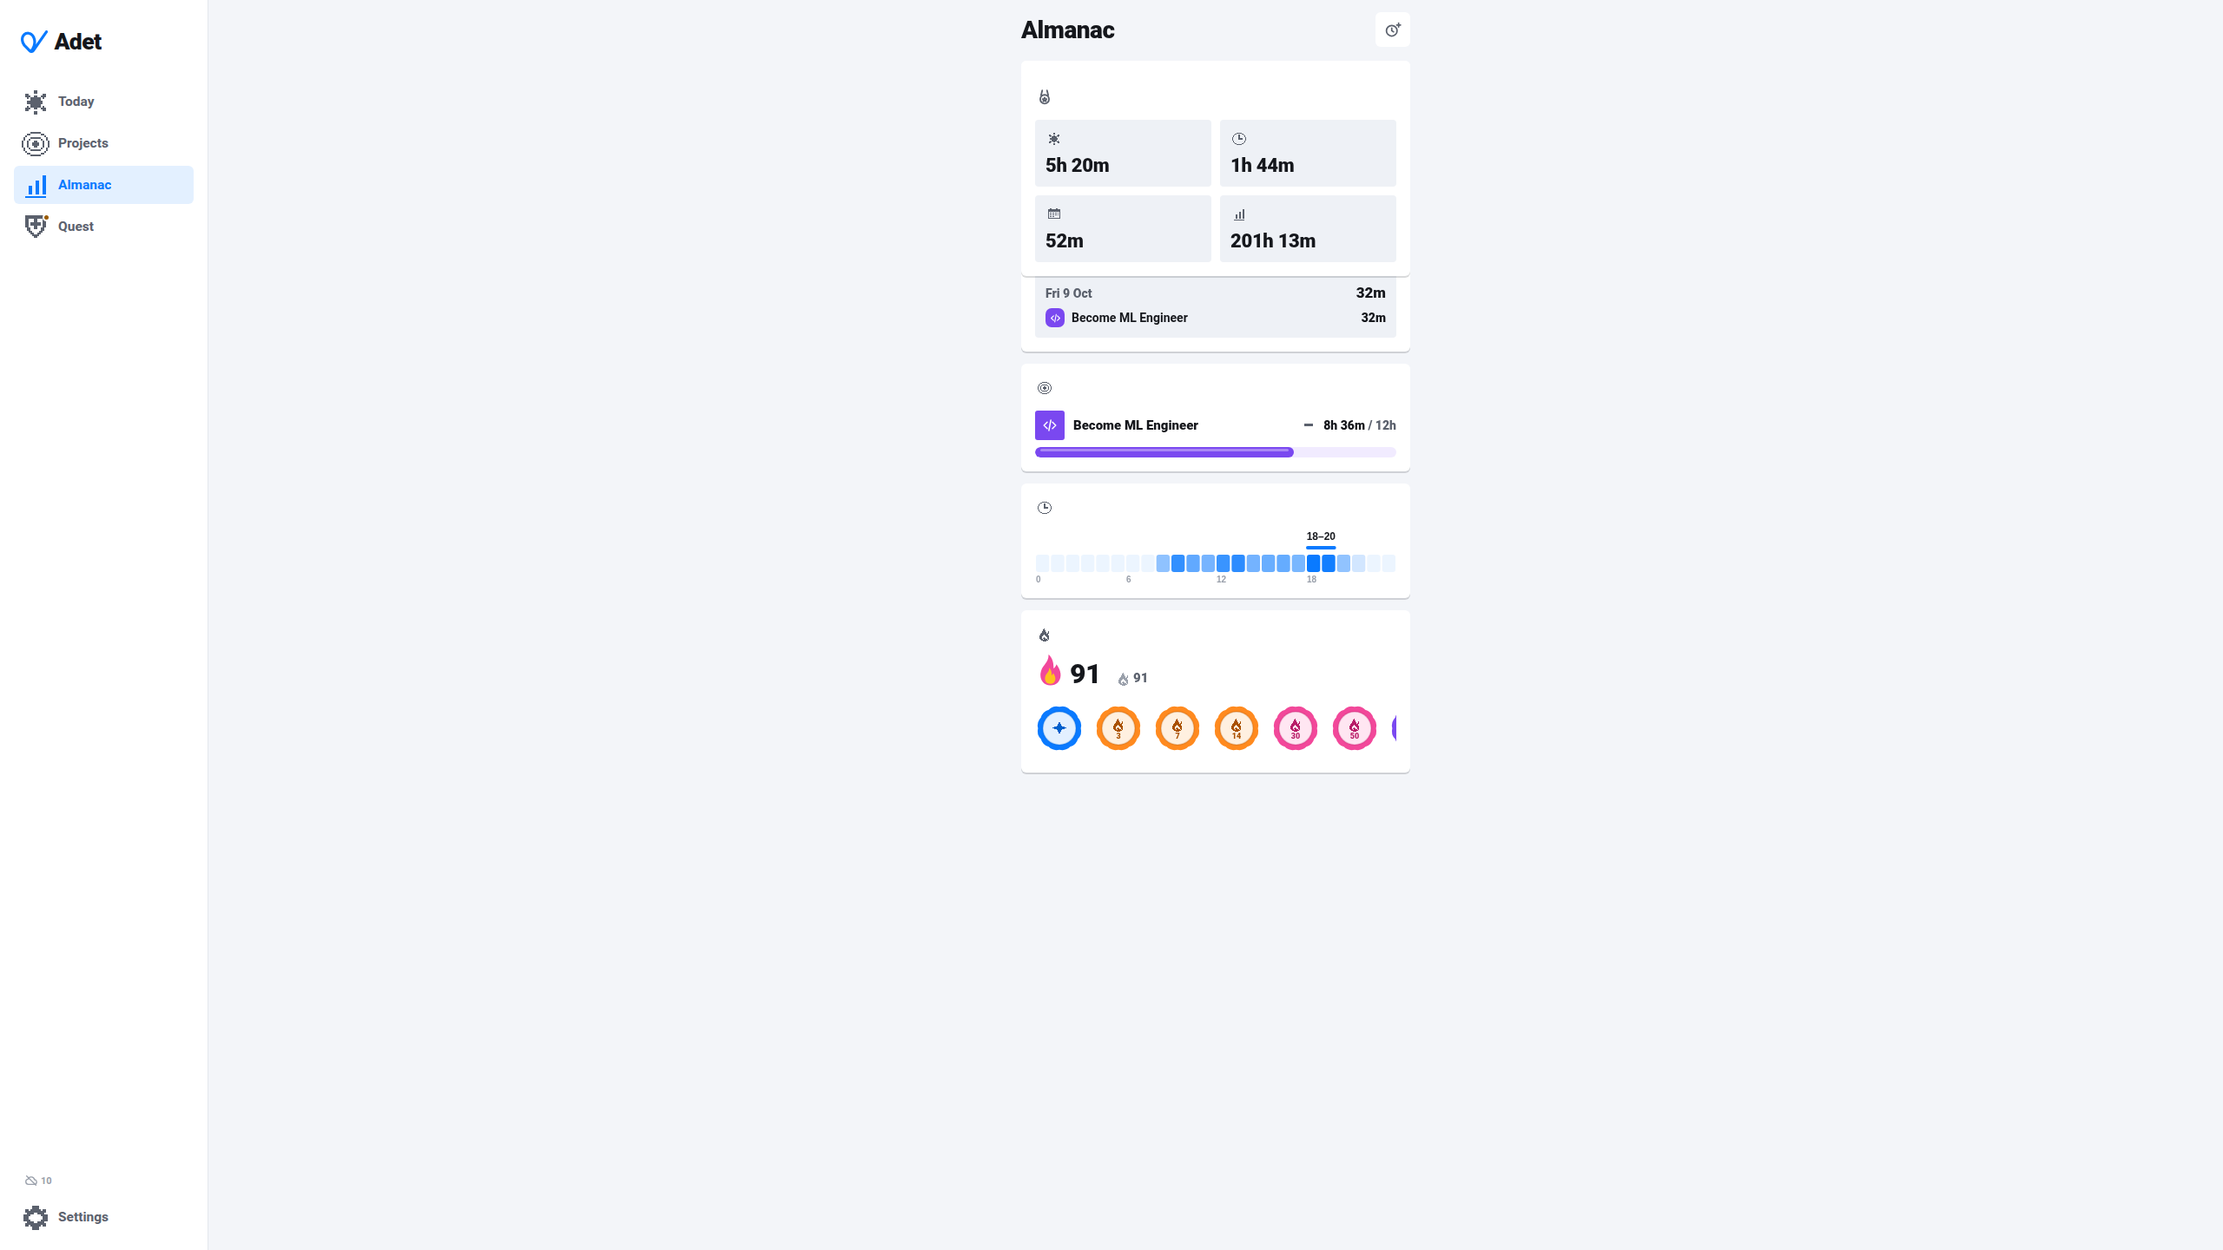
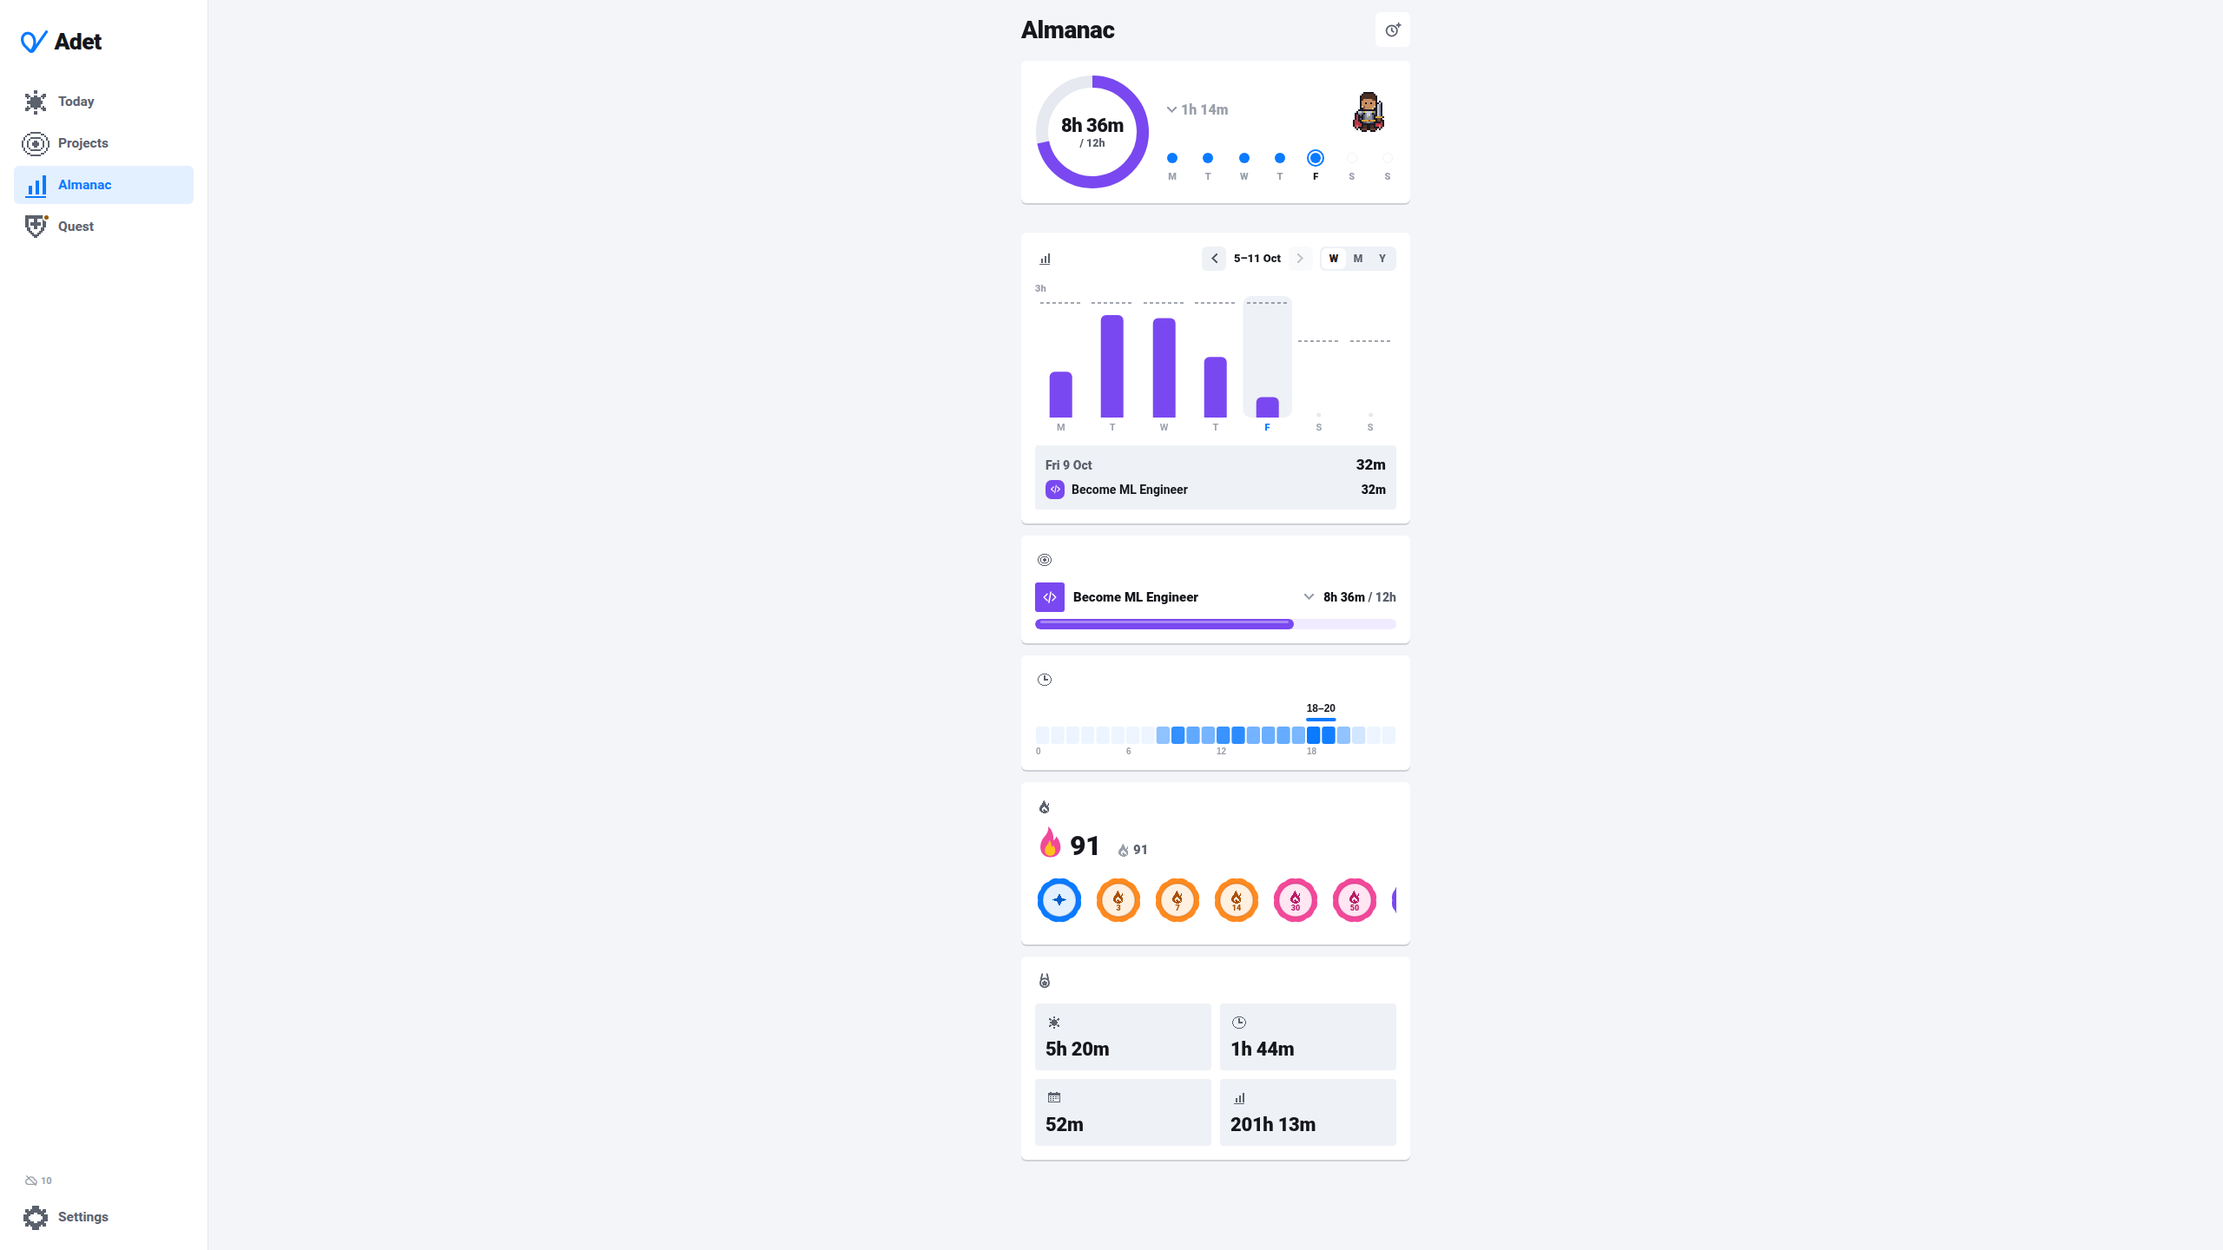
desktop wave 0: review fixes
Sidebar Quest item reads the game on its own, Grid/Col add nothing on phone,
capture script derives the Supabase ref from env, settled screenshots, doc fixes.

diff --git a/src/components/desktop/Grid.tsx b/src/components/desktop/Grid.tsx
@@ -6,18 +6,21 @@ import { useLayout } from '../../theme/useLayout';
 
 /**
  * A 12-column grid with the gutter token between columns and rows. Children
- * are `Col`s; a row wraps when its spans pass 12. On phone every `Col` is the
- * full row, so a screen can use the same markup on every tier.
+ * are `Col`s; a row wraps when its spans pass 12. On phone it adds nothing: a
+ * plain View with only the `style` you pass (no gutters, no negative margins),
+ * so a screen can share one markup and keep its own phone spacing.
  */
 export function Grid({ children, style }: { children: React.ReactNode; style?: StyleProp<ViewStyle> }) {
-  const { gutter } = useLayout();
+  const { isDesktop, gutter } = useLayout();
+  if (!isDesktop) return <View style={style}>{children}</View>;
   // Each Col pads gutter/2 a side; the negative margin hands that back at the edges.
   return <View style={[{ flexDirection: 'row', flexWrap: 'wrap', marginHorizontal: -gutter / 2, rowGap: gutter }, style]}>{children}</View>;
 }
 
-/** One cell of a `Grid`, `span` of 12 columns wide (a number, or one per desktop tier). */
+/** One cell of a `Grid`, `span` of 12 columns wide (a number, or one per desktop tier). On phone: a plain View. */
 export function Col({ span = GRID_COLUMNS, children, style }: { span?: Span; children?: React.ReactNode; style?: StyleProp<ViewStyle> }) {
-  const { tier, gutter } = useLayout();
+  const { isDesktop, tier, gutter } = useLayout();
+  if (!isDesktop) return <View style={style}>{children}</View>;
   const n = colSpan(span, tier);
   return <View style={[{ width: `${(n / GRID_COLUMNS) * 100}%`, paddingHorizontal: gutter / 2 }, style]}>{children}</View>;
 }

diff --git a/src/components/desktop/DesktopShell.tsx b/src/components/desktop/DesktopShell.tsx
@@ -72,7 +72,6 @@ export function DesktopShell({
 function Sidebar({ active, onChange, onOpenSettings }: { active: Screen; onChange(s: Screen): void; onOpenSettings(): void }) {
   const { colors } = useTheme();
   const { sidebarW, gutter } = useLayout();
-  const quest = useQuestTab();
   return (
     <View
       style={{
@@ -93,7 +92,7 @@ function Sidebar({ active, onChange, onOpenSettings }: { active: Screen; onChang
       <View accessibilityRole="tablist" style={{ gap: 4 }}>
         {TABS.map((tab) =>
           tab.key === 'quest' ? (
-            <NavItem key={tab.key} label={quest.label} text={shownName(tab)} glyph="quest" on={active === tab.key} badge={quest.badge} onPress={() => onChange(tab.key)} />
+            <QuestNavItem key={tab.key} text={shownName(tab)} on={active === tab.key} onPress={() => onChange(tab.key)} />
           ) : (
             <NavItem key={tab.key} label={tab.label} text={shownName(tab)} glyph={tab.glyph} on={active === tab.key} onPress={() => onChange(tab.key)} />
           ),
@@ -108,6 +107,12 @@ function Sidebar({ active, onChange, onOpenSettings }: { active: Screen; onChang
       </View>
     </View>
   );
+}
+
+/** Reads the game on its own (like the tab bar's Quest item), so data changes re-render just this item. */
+function QuestNavItem({ text, on, onPress }: { text: string; on: boolean; onPress(): void }) {
+  const { label, badge } = useQuestTab();
+  return <NavItem label={label} text={text} glyph="quest" on={on} badge={badge} onPress={onPress} />;
 }
 
 function NavItem({

diff --git a/docs/desktop/HANDOFF_0.md b/docs/desktop/HANDOFF_0.md
@@ -17,7 +17,7 @@ useLayout(): { tier: 'phone'|'desktop'|'wide', isDesktop, width, height, sidebar
 // src/components/desktop  (barrel: index.ts)
 <DesktopShell active onChange onOpenSettings toasts>{screen}</DesktopShell>   // App.tsx only
 <TwoPane rail={...} flush?>{main}</TwoPane>   // beside from RAIL_MIN, stacked under it, phone: children alone
-<Grid><Col span={6}/><Col span={{ desktop: 6, wide: 4 }}/></Grid>
+<Grid><Col span={6}/><Col span={{ desktop: 6, wide: 4 }}/></Grid>   // on phone: plain Views, only your own `style` (no gutters or margins)
 useDesktopFill()   // call in a screen: it gets the whole main area instead of the phone column
 PHONE_COLUMN_W = 480
 
@@ -37,20 +37,24 @@ Use `useLayout()` for decisions that differ by tier. Use `Platform.OS` only for 
 2. **No resize remounts.** App.tsx swaps one slot (the whole chrome: spacer + screen + TabBar, or DesktopShell) so the overlays and hosts after it keep their position in the tree. Crossing 1024 does remount the screen itself (its parent changes), so local screen state resets; overlays, sheets and ceremonies keep theirs.
 3. **Phone column.** Until a screen opts out with `useDesktopFill()`, the shell puts it in a 480 px column centered in the main area. That is what "still phone-shaped inside" looks like. The opt-out lives in the screen's own file, so no track needs to edit the shell. Opt-out lasts while the screen is mounted (layout effect, no flash).
 4. **Rail breakpoint 1280**, a window width, not a pane width. Below it the rail stacks under the main pane. `TwoPane` never scrolls; each pane brings its own ScrollView. On phone `TwoPane` renders only its children and drops the rail, so a screen must decide what the rail's content does on phone.
-5. **Page setup is injected at runtime**, not in a `web/index.html`. `useDesktopPage` (components/desktop/webPage.ts) adds a `<style>` and a `data-adet-desktop` attribute on `<html>` while the shell is mounted, and removes both on unmount. Rules: `html/body` full height, overflow hidden, no overscroll; `canvas { image-rendering: pixelated }`. Scoping it this way keeps phone web and the kill switch exactly as before (a global canvas rule would change Skia output at 390). Expo's own template already has `body { overflow: hidden }` and the title `Adet`, so no template was needed.
+5. **Page setup is injected at runtime**, not in a `web/index.html`. `useDesktopPage` (components/desktop/webPage.ts) adds a `<style>` and a `data-adet-desktop` attribute on `<html>` while the shell is mounted, and removes both on unmount. Rules: `html/body` full height, overflow hidden, no overscroll; `canvas { image-rendering: pixelated }`. Scoping it this way keeps phone web and the kill switch exactly as before (a global canvas rule would change Skia output at 390). Checked in the browser: `getComputedStyle(canvas).imageRendering` is `pixelated` and `<html data-adet-desktop>` is set at 1024 to 2560; at 390 it is `auto` and the attribute is absent.. Expo's own template already has `body { overflow: hidden }` and the title `Adet`, so no template was needed.
 6. **Window title** is `<Screen> · Adet` (for example `Almanac · Adet`) while on desktop, and the original title returns on unmount.
 7. **Text selection.** Only the sidebar has `userSelect: 'none'`. Screen content stays selectable.
 8. **Sidebar names.** It shows the game word (`Almanac`); the accessibility label is the tab's spoken one (`Almanac, stats`; Quest says `Quest, a chest is waiting` when it does). Items use `accessibilityRole="tab"` like the tab bar, so role-based scripts work on both. Settings is a `button`.
 9. **Toasts** sit at the bottom center of the main area, max 480 wide, 16 above the edge, in a `pointerEvents: 'box-none'` wrapper so they never block clicks around them.
 10. **Sync indicator** in the sidebar is the existing `SyncIndicator`; its tooltip still opens on touch only (hover is wave 2).
-11. **No pixel helper added.** The existing `pixelScale` in `src/game/render/grid.ts` is the integer scaler; see PLAN.
-12. **Capture script.** `docs/desktop/capture.cjs` is not wired into package.json and needs Playwright from outside the repo (see below). No dependency was added.
+11. **`Grid` and `Col` add nothing on phone** (plain Views with your `style`), like `TwoPane`. The gutter, negative margins and row gap only apply on desktop.
+12. **No pixel helper added.** The existing `pixelScale` in `src/game/render/grid.ts` is the integer scaler; see PLAN.
+13. **Sidebar Quest item** reads the game on its own (`QuestNavItem`), so data changes re-render only that item, as in the tab bar.
+14. **Capture script.** `docs/desktop/capture.cjs` is not wired into package.json and needs Playwright from outside the repo (see below). No dependency was added.
 
 ## Baseline at 1920×1080: what breaks (docs/desktop/media/baseline-*.png)
 
+The baseline shots were taken with `EXPO_PUBLIC_DESKTOP=false`, which renders the same tree as `main` (DOM-diffed).
+
 - Today: ring centered, rows stretch to about 1890 px, the play button is 1800 px from the habit name; the header lockup, streak, sync, Week and Settings sit at the far edges.
 - Projects: one 1890 px card; the rest of the window is empty.
-- Almanac: tiles, chart and bars stretch to full width; the bottom is cut by the tab bar, content scrolls.
+- Almanac: the hero ring, week chart, project bar and heatmap all stretch to about 1890 px (the week dots spread across the window); content scrolls under the tab bar.
 - Quest: the map canvas fills the window but the scene is off-center (island at x about 800 of 1920) with a dead band at the bottom; HUD is a full-width bar.
 - Tab bar: four icons spread across 1920.
 - Welcome flow (baseline-1920-welcome.png): the pager footer clips against the card edge and the continue button is full width. Track D.
@@ -75,7 +79,7 @@ Other things to know:
 - Every overlay is a react-native-web `Modal`, which portals to `document.body`, outside the shell and covering the sidebar. That is right for ceremonies and sheets, and it is why they look the same at any width until D and C2 change them.
 - Modals use `role="dialog"`; scripts can dismiss celebrations by clicking the last button in `[role="dialog"]`.
 - Hosts, watchers, `FocusView`, the Quest hosts and every sheet stay mounted in App.tsx exactly as before.
-- Wave 2 (E) still needs: hover and focus rings for `NavItem` and every Pressable, keyboard shortcuts, tab order in the sidebar, Escape for overlays.
+- Wave 2 (E) still needs: hover and focus rings for `NavItem` and every Pressable, app-wide keyboard shortcuts, and tab order in the sidebar. (Escape inside a sheet or dialog is D's.)
 - Lint: 0 errors, 81 warnings, same as `main`.
 
 ## Verification done
@@ -94,6 +98,6 @@ npx expo start --web --port 8123        # do not set CI=1 (it stops Metro watchi
 PW=~/.npm/_npx/<hash>/node_modules/playwright node docs/desktop/capture.cjs http://localhost:8123 1920 1080 out/shot Today Projects Almanac Quest
 ```
 
-The script routes `supabase.co` to abort and seeds four localStorage keys before load: the Supabase session `sb-<project-ref>-auth-token` (far-future expiry, user `qa-user`; the ref is hard-coded for this project), `streak-settings-v1` (`welcomeSeen`, no daily prompt), `streak-sync-v1` (`ownerId: 'qa-user'`, which keeps the built-in sample data instead of dropping it) and `adet-quest-tables-v1 = available`. Celebrations appear about 8 to 14 s after load, so it waits 14 s and then clicks through every `[role="dialog"]`. Run one capture at a time: four at once starved the CPU and caught a Quest ceremony mid-scene.
+The script routes `supabase.co` to abort and seeds four localStorage keys before load: the Supabase session `sb-<project-ref>-auth-token` (far-future expiry, user `qa-user`; the ref comes from `EXPO_PUBLIC_SUPABASE_URL`, read from the environment or `./.env`, so it is not committed), `streak-settings-v1` (`welcomeSeen`, no daily prompt), `streak-sync-v1` (`ownerId: 'qa-user'`, which keeps the built-in sample data instead of dropping it) and `adet-quest-tables-v1 = available`. Celebrations appear about 8 to 14 s after load, so it waits 14 s and then clicks through every `[role="dialog"]`, and it waits 6 s after each tab click (the Almanac animates in; earlier, shorter waits caught zeroed tiles). It also prints the canvas `image-rendering` and the `data-adet-desktop` flag. Run one capture at a time: four at once starved the CPU and caught a Quest ceremony mid-scene.
 
 Open question for the owner: add a `scripts/web-capture` (that is Track F's area) and Playwright as a devDependency, or keep this out-of-repo recipe.

diff --git a/docs/desktop/PLAN.md b/docs/desktop/PLAN.md
@@ -63,7 +63,7 @@ Desktop adds no colors, radii or fonts. A screen that needs a bigger type size o
 
 Pixel art (the Quest world, the pixel timer, glyphs, mascot) is drawn at a whole-number multiple of its source pixels, never a fraction. The existing helper is `pixelScale(width)` in `src/game/render/grid.ts` (largest integer scale that still shows 112 game pixels across, clamped 2 to 8). Rules for desktop:
 
-- Feed it the width of the pane the art lives in, not the window. Today `useUiUnit()` (src/game/ui/theme.ts) and `PixelStage` read `useWindowDimensions()`, which on desktop is 1920 even when the art sits in a 480 px column. Track C1 fixes the ones it owns; the others are listed in HANDOFF_0.
+- Feed it the width of the pane the art lives in, not the window. Today `useUiUnit()` (src/game/ui/theme.ts) reads `useWindowDimensions()`, which on desktop is 1920 even when the art sits in a 480 px column. `PixelStage` itself takes `width` as a prop, so each caller decides where that width comes from. Track C1 fixes the ones it owns; the others are listed in HANDOFF_0.
 - At 1920 the quest pane is 1680 wide, so `pixelScale` gives 8 (the clamp). At 1366 it gives 8. A 480 px column gives 4.
 - Size the canvas to a whole multiple of the scale so nothing is resampled. While the desktop shell is mounted the page sets `image-rendering: pixelated` on every canvas (scoped to `html[data-adet-desktop]`).
 - Vector UI (rings, bars, text) is not snapped; only pixel art is.
@@ -74,11 +74,11 @@ Pixel art (the Quest world, the pixel timer, glyphs, mascot) is drawn at a whole
 
 **B: Stats (Almanac).** The dashboard becomes a grid: on desktop the four summary tiles sit in one row, the week chart takes about two thirds of the width beside the projects progress, and the hour heatmap and streak calendar share a row below. At 1366 it drops to two columns; at 1024 to one. Charts keep their calm look: no animation beyond what exists, no guilt colors.
 
-**C1: Quest (map and world).** The Quest tab fills the whole main area (`useDesktopFill()`), world and realm maps scaled by an integer from the pane width, centered, with the HUD panel at pane width. No dead band at the bottom and no off-center map: the scene is composed for the pane, and the pixel UI unit follows the pane, not the window. Sage/Scribe panels become side panels in the rail rather than full-width sheets where C1 owns them.
+**C1: Quest (map and world).** The Quest tab fills the whole main area (`useDesktopFill()`), world and realm maps scaled by an integer from the pane width, centered, with the HUD panel at pane width. No dead band at the bottom and no off-center map: the scene is composed for the pane, and the pixel UI unit follows the pane, not the window. The Sage, Scribe and character panels live in `Quest/sheets/` (Track D); C1 only leaves room for them and requests any change in its handoff.
 
 **C2: Focus, celebrations, session.** Focus view fills the window with the timer centered at an integer pixel scale and generous empty space; nothing flashes, no sound. Celebrations and ceremonies are centered cards at a capped width (about 480 to 560), not full-window scrims with stretched art; confetti and burst use the window. Quest session screens (result, loot, ceremonies) use the same centered width.
 
-**D: Sheets and overlays.** On desktop a sheet is a centered dialog (width 480 to 640, max 80% of the window height), not a bottom sheet; the drag handle goes, Escape and a backdrop click close it. Forms inside keep their phone arrangement. The welcome flow is a centered card with its pager and button at card width. Sign-in is a centered card. Date and time fields use a web-appropriate control. Phones keep the bottom sheet exactly.
+**D: Sheets and overlays.** On desktop a sheet is a centered dialog (width 480 to 640, max 80% of the window height), not a bottom sheet; the drag handle goes, a backdrop click closes it, and so does Escape for the sheets and dialogs D owns (wave 2 E adds the app-wide shortcuts and focus order, not per-dialog Escape). Forms inside keep their phone arrangement. The welcome flow is a centered card with its pager and button at card width. Sign-in is a centered card. Date and time fields use a web-appropriate control. Phones keep the bottom sheet exactly.
 
 **F: shell, packaging and build.** The Tauri wrapper (src-tauri/), Cloudflare/wrangler config, CI, and web scripts. Not part of the UI; it must not require UI changes. The web export is the artifact it wraps.
 
@@ -86,6 +86,7 @@ Pixel art (the Quest world, the pixel timer, glyphs, mascot) is drawn at a whole
 
 ## Files each track owns
 
+```
 A: src/screens/TodayScreen.tsx, src/screens/ProjectsScreen.tsx, src/components/today/*, MiniDayRing, CapacityIndicator, Flame
 B: src/screens/StatsScreen.tsx, src/components/stats/*
 C1: src/screens/Quest/ except session/, ceremonies/ and sheets/; src/game/ui/theme.ts; src/game/render/Transitions.tsx
@@ -95,6 +96,7 @@ F: src-tauri/, wrangler config, .github/, scripts/web-*, src/game/render/SkiaGat
 G: src/feedback/*, src/notifications/*, src/game/feedback/*, src/platform/*
 Wave 2 (E keyboard and pointer, H audit): any file, but only after wave 1 is merged.
 Anything outside a track's list is changed only by a request in its handoff file.
+```
 
 ## Foundation files
 
